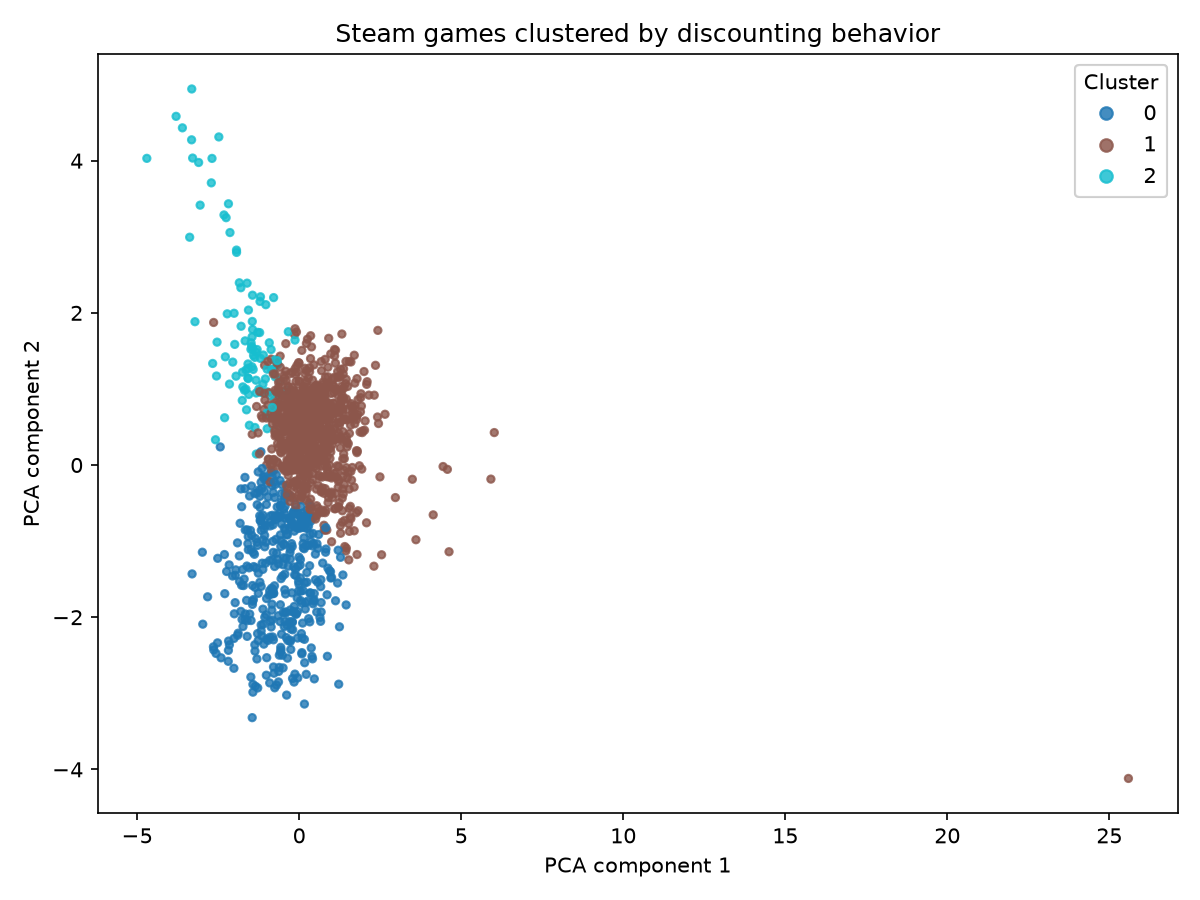
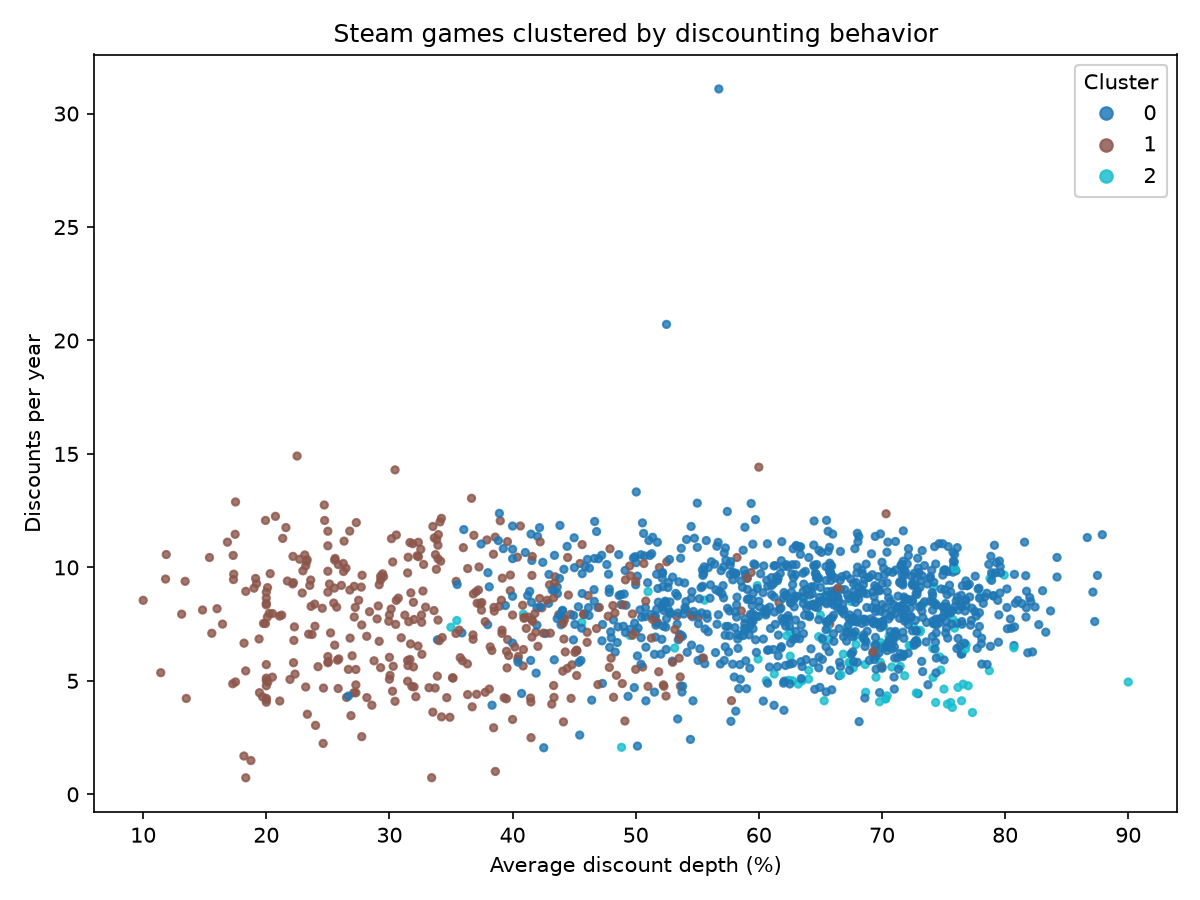
Fix runaway discount_depth_trend values and make the cluster plot legible
Games with only a handful of discount events over a short window (e.g. 4
events swinging 15%->80% over ~6 weeks) got a least-squares slope fit to
that tiny window, then annualized (x365.25) into an absurd figure - one
real case hit 451%/year. discount_pct itself only ranges 0-100, so no
annualized rate outside that range can be real; clip to it instead of
letting the extrapolation distort clustering and its visualization (this
was the stray point far off the rest of the plot).

Also swapped the cluster plot from an unlabeled PCA projection to two
directly-interpretable features (average discount depth vs. discounts
per year, the same wording already used in api.py's CLUSTER_FEATURE_LABELS)
so the axes actually mean something to a reader.

Re-ran clustering, smart-buy (cluster_id shifted labels between the two
clustering runs even though the underlying groups didn't change much),
and deal-score against production D1 to keep the whole pipeline consistent.

diff --git a/tests/test_features.py b/tests/test_features.py
@@ -1,7 +1,12 @@
 import pandas as pd
 import pytest
 
-from salecast.features import FEATURE_COLUMNS, MIN_DISCOUNT_EVENTS, build_game_features
+from salecast.features import (
+    FEATURE_COLUMNS,
+    MAX_ABS_TREND_PCT_PER_YEAR,
+    MIN_DISCOUNT_EVENTS,
+    build_game_features,
+)
 
 
 def _tracked_games(rows):
@@ -30,6 +35,27 @@ def test_build_game_features_computes_expected_values():
     # 2020-01-01 to 2021-01-01 is 366 days (2020 is a leap year)
     assert row["discount_frequency_per_year"] == pytest.approx(3 / ((366 - 91) / 365.25))
     assert row["discount_depth_trend"] == pytest.approx(25.5882, abs=1e-3)
+
+
+def test_discount_depth_trend_clips_extreme_short_window_swings():
+    # Real-world case: 4 discount events swinging 15%->80%->66% over ~6
+    # weeks produced an unclipped trend of ~451%/year - a short-window
+    # least-squares fit annualized (x365.25) into nonsense, since
+    # discount_pct itself can never move more than 100 points total.
+    tracked_games = _tracked_games([(1, "2015-04-01")])
+    price_history = pd.DataFrame(
+        [
+            {"app_id": 1, "date": "2015-04-30", "price": 12.74, "discount_pct": 15, "source": "s"},
+            {"app_id": 1, "date": "2015-06-11", "price": 5.09, "discount_pct": 66, "source": "s"},
+            {"app_id": 1, "date": "2015-06-15", "price": 2.99, "discount_pct": 80, "source": "s"},
+            {"app_id": 1, "date": "2015-06-16", "price": 5.09, "discount_pct": 66, "source": "s"},
+        ]
+    )
+
+    features = build_game_features(price_history, tracked_games)
+
+    row = features.iloc[0]
+    assert abs(row["discount_depth_trend"]) <= MAX_ABS_TREND_PCT_PER_YEAR
 
 
 def test_build_game_features_drops_games_below_min_discount_events():

diff --git a/salecast/visualize.py b/salecast/visualize.py
@@ -4,24 +4,27 @@ matplotlib.use("Agg")
 
 import matplotlib.pyplot as plt
 import pandas as pd
-from sklearn.decomposition import PCA
-from sklearn.preprocessing import StandardScaler
 
-from salecast.features import FEATURE_COLUMNS
+# Two of FEATURE_COLUMNS plotted directly, rather than a PCA projection -
+# PCA components are unlabeled linear combinations of all 5 features, which
+# reads as two meaningless axes to anyone looking at the chart. Discount
+# depth and frequency are the two most intuitive of the five and carry most
+# of the story on their own (see the same wording in api.py's
+# CLUSTER_FEATURE_LABELS, kept consistent here).
+X_FEATURE = "avg_discount_depth"
+Y_FEATURE = "discount_frequency_per_year"
+X_LABEL = "Average discount depth (%)"
+Y_LABEL = "Discounts per year"
 
 
 def plot_clusters(labeled: pd.DataFrame, output_path: str) -> None:
-    """Projects FEATURE_COLUMNS to 2D via PCA and saves a scatter plot
-    colored by cluster_id."""
-    X = StandardScaler().fit_transform(labeled[FEATURE_COLUMNS])
-    coords = PCA(n_components=2, random_state=42).fit_transform(X)
-
+    """Scatter plot of X_FEATURE vs Y_FEATURE, colored by cluster_id."""
     fig, ax = plt.subplots(figsize=(8, 6))
     scatter = ax.scatter(
-        coords[:, 0], coords[:, 1], c=labeled["cluster_id"], cmap="tab10", s=12, alpha=0.8
+        labeled[X_FEATURE], labeled[Y_FEATURE], c=labeled["cluster_id"], cmap="tab10", s=12, alpha=0.8
     )
-    ax.set_xlabel("PCA component 1")
-    ax.set_ylabel("PCA component 2")
+    ax.set_xlabel(X_LABEL)
+    ax.set_ylabel(Y_LABEL)
     ax.set_title("Steam games clustered by discounting behavior")
     legend = ax.legend(*scatter.legend_elements(), title="Cluster")
     ax.add_artist(legend)

diff --git a/salecast/features.py b/salecast/features.py
@@ -16,13 +16,26 @@ FEATURE_COLUMNS = [
 ]
 
 
+# A game whose only discount events fall within a short window (a few
+# events over a handful of weeks) gets a least-squares slope fit to very
+# little data, then annualized (x365.25) - a modest swing over a few weeks
+# extrapolates into an absurd "percent per year" figure (seen in practice:
+# a game with 4 discount events across ~6 weeks produced a 451%/year
+# "trend"). discount_pct itself only ever ranges 0-100, so no annualized
+# rate beyond that range can be a real signal - clip to it instead of
+# letting the extrapolation distort clustering and visualizations.
+MAX_ABS_TREND_PCT_PER_YEAR = 100.0
+
+
 def _slope_per_year(days_since_release: pd.Series, discount_pct: pd.Series) -> float:
     """Least-squares slope of discount_pct per year of days_since_release -
-    positive means discounts have been getting deeper over time."""
+    positive means discounts have been getting deeper over time. Clipped to
+    +/-MAX_ABS_TREND_PCT_PER_YEAR (see comment above)."""
     if days_since_release.nunique() < 2:
         return np.nan
     slope_per_day, _ = np.polyfit(days_since_release, discount_pct, 1)
-    return slope_per_day * 365.25
+    slope_per_year = slope_per_day * 365.25
+    return float(np.clip(slope_per_year, -MAX_ABS_TREND_PCT_PER_YEAR, MAX_ABS_TREND_PCT_PER_YEAR))
 
 
 def build_game_features(price_history: pd.DataFrame, tracked_games: pd.DataFrame) -> pd.DataFrame: